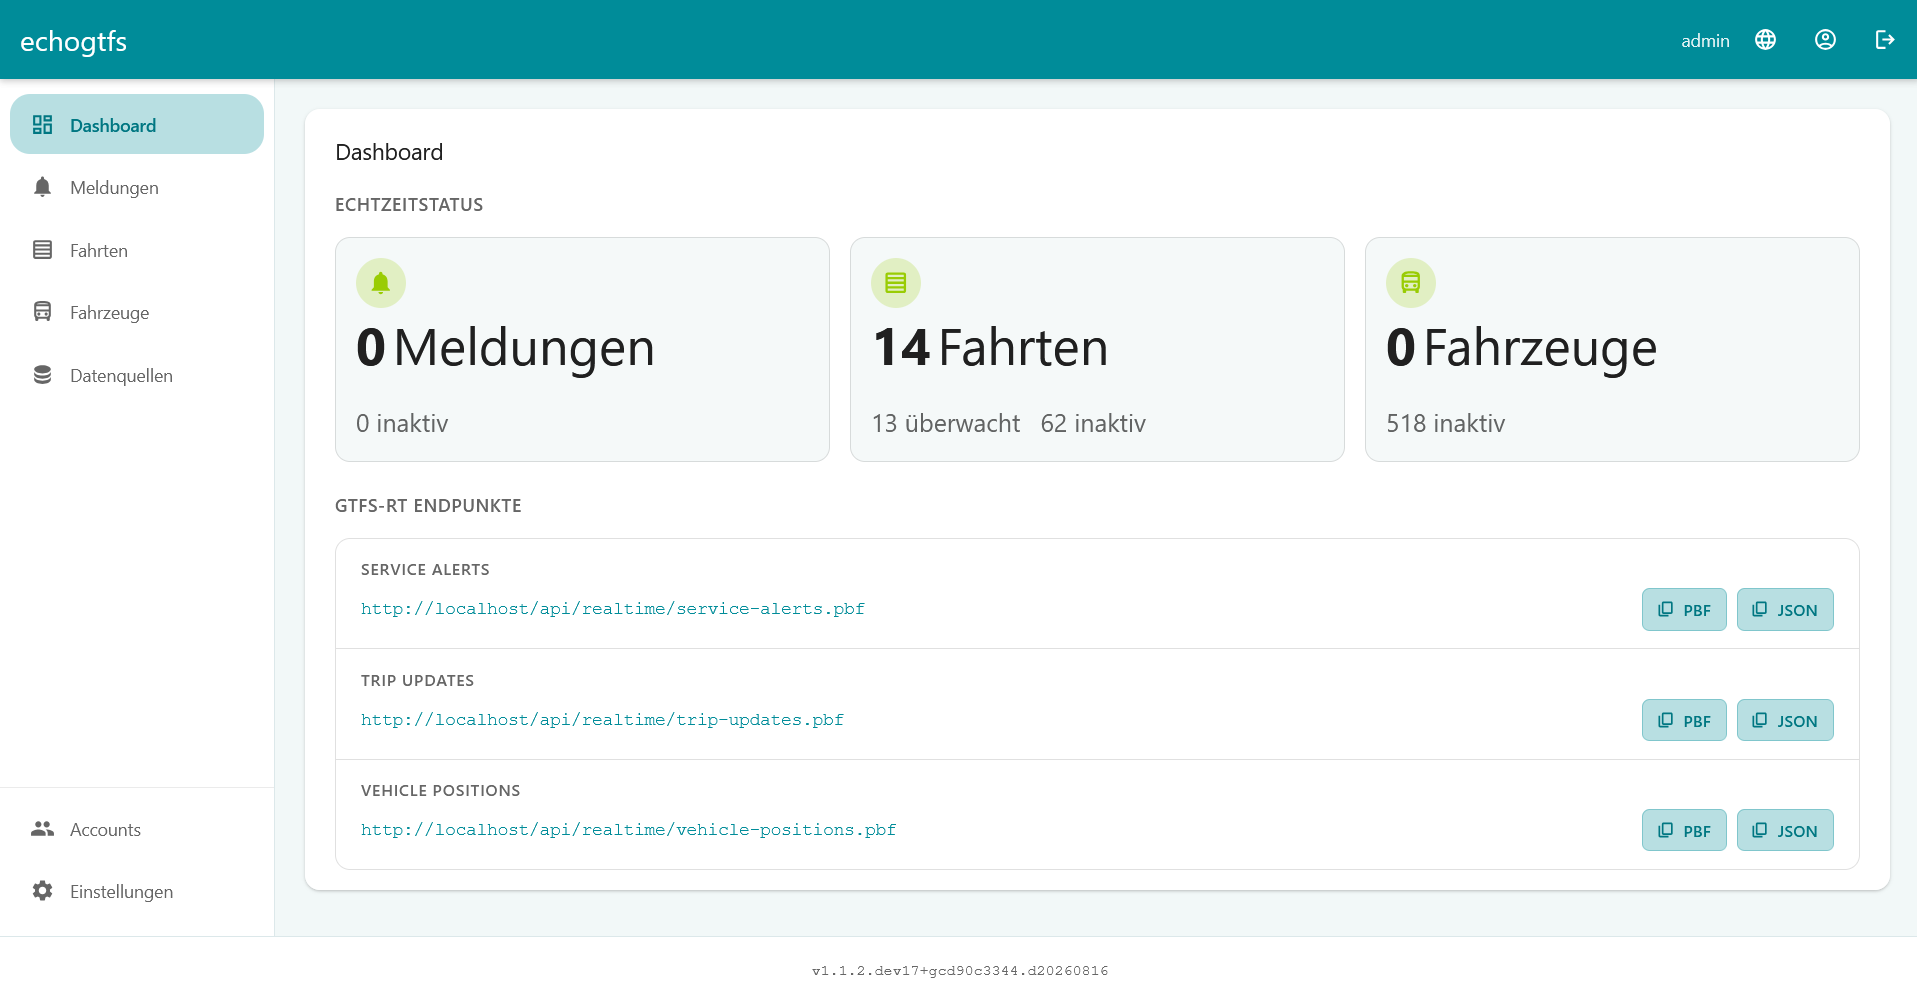
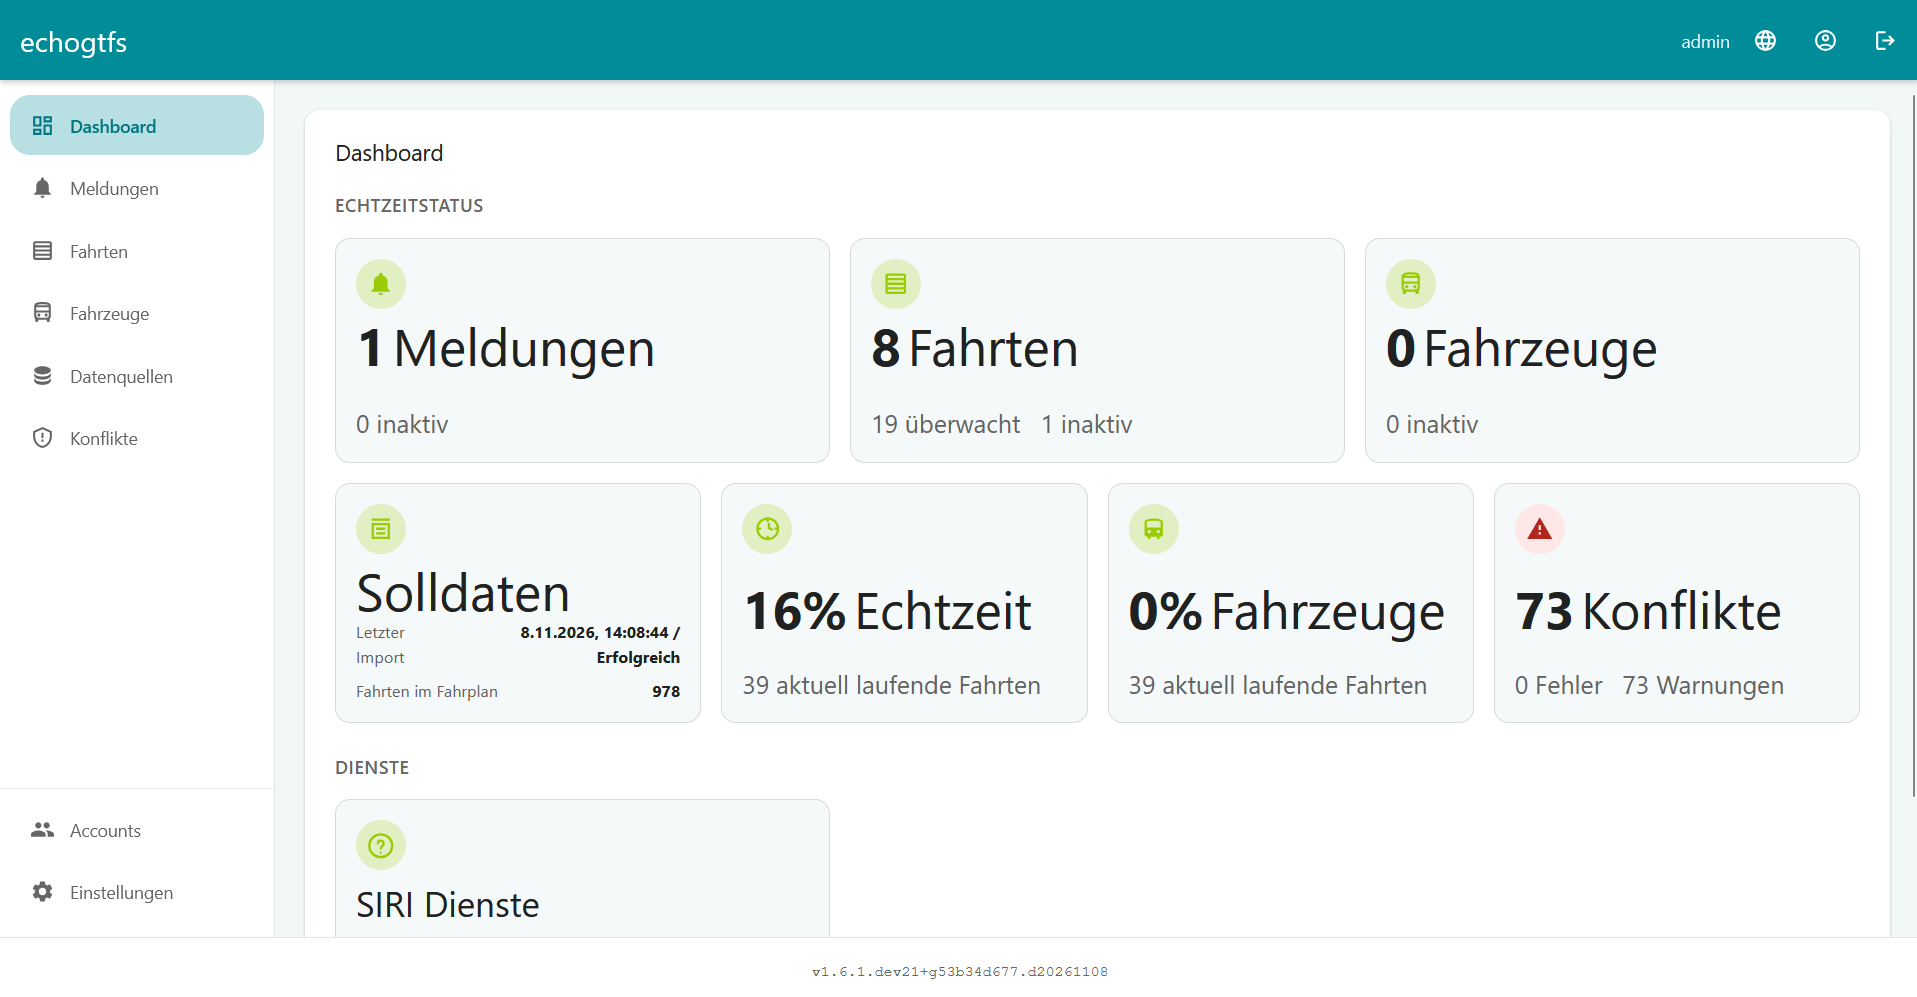
updated manual for latest information with conflict monitoring

diff --git a/docs/manual/source/datasources/general.md b/docs/manual/source/datasources/general.md
@@ -19,7 +19,7 @@ Um Datenquellen zu verwalten, wechseln Sie in den Bereich "Datenquellen" im Seit
 - Über den "Deactivate"-Button können **bestehende Datenquellen deaktiviert / aktiviert** werden
 
 ```{note}
-Eine deaktivierte Datenquelle bleibt im System enthalten, wird allerdings vom Scheduler nicht ausgeführt. Bei der Deaktivierung einer Datenquelle werden alle Objekte (Meldungen, Fahrten, Fahrzeuge), die in Zusammenhang mit dieser Datenquelle stehen, gelöscht. Nach der Aktivierung wird die Datenquelle zum nächsten regulären Zeitpunkt oder eventbasiert über die {ref}`h-push-api-push-api` vom Scheduler ausgeführt.
+Eine deaktivierte Datenquelle bleibt im System enthalten, wird allerdings vom Scheduler nicht ausgeführt. Bei der Deaktivierung einer Datenquelle werden alle Objekte (Meldungen, Fahrten, Fahrzeuge), die in Zusammenhang mit dieser Datenquelle stehen, gelöscht. Nach der Aktivierung wird die Datenquelle zum nächsten regulären Zeitpunkt oder eventbasiert über die {ref}`h-echo-api-echo-api` vom Scheduler ausgeführt.
 ```
 
 (h-datasources-general-edit)=
@@ -36,7 +36,7 @@ Für jede Datenquelle können folgende Informationen gepflegt werden:
 - **Name**: _eindeutige Bezeichnung_ innerhalb des Systems für die Datenquelle
 - **Adapter**: Typ der Datenquelle (GTFS-RT, SIRI-Lite, SIRI-...)
 - **Endpunkt-URL**: URL, von der die Daten bei der Ausführung der Datenquelle abgerufen werden. Optional bei eventbasierten Datenquellen, je nach verwendetem Adapter-Typ
-- **Ausführungsart**: Ausführungsart der Datenquelle. Zeitbasiert = über Cron-Ausdruck, Eventbasiert = über {ref}`h-push-api-push-api`, Abobasiert = über ein vom Dienst verwaltetes Abonnement
+- **Ausführungsart**: Ausführungsart der Datenquelle. Zeitbasiert = über Cron-Ausdruck, Eventbasiert = über {ref}`h-echo-api-echo-api`, Abobasiert = über ein vom Dienst verwaltetes Abonnement
 - **Cron-Ausdruck**: Cron-Ausdruck zur Angabe der gewünschten Ausführungsintervalle. Nur relevant bei zeitbasierter Ausführung
 - **Verfahrensweise bei ungültigen Bezügen**: Angabe zum Umgang mit Objekten mit ungültigen Bezügen
 - **Aktiv**: Aktivierung oder Deaktivierung der Datenquelle
@@ -72,7 +72,7 @@ _Die genauen Regeln zur Unterstützung von Filtern sind in der Beschreibung der 
 
 Standardmäßig werden Datenquellen zeitbasiert ausgeführt. Dabei werden sie vom internen Scheduler zu regelmäßgen, über den Cron-Ausdruck definierten Zeitpunkten ausgeführt. Die Daten werden dabei von EchoGTFS vom Quellsystem abgefragt.
 
-Bei besonders zeitkritischen Datenquellen (z.B. Fahrzeugpositionen) besteht alternativ die Möglichkeit, die Datenquelle eventbasiert auszuführen. Dabei werden die Daten aktiv vom Quellsystem an den Endpunkt der {ref}`h-push-api-push-api` für die jeweilige Datenquelle übermittelt und die Datenquelle unmittelbar ausgeführt.
+Bei besonders zeitkritischen Datenquellen (z.B. Fahrzeugpositionen) besteht alternativ die Möglichkeit, die Datenquelle eventbasiert auszuführen. Dabei werden die Daten aktiv vom Quellsystem an den Endpunkt der {ref}`h-echo-api-echo-api` für die jeweilige Datenquelle übermittelt und die Datenquelle unmittelbar ausgeführt.
 
 Alternativ bietet EchoGTFS auch die Nutzung sogenannter abobasierten Datenquellen an. Dabei wird ein Abo an einer SIRI-Datenquelle (oder einer anderen Datenquelle) eingerichtet und die Nutzdaten an die jeweilige Datenquelle zur Verarbeitung übergeben. Damit abobasierte Datenquellen genutzt werden können, müssen je nach Datenquelle zusätzliche Kommunikationsdienste gestartet werden. Weitere Informationen dazu finden Sie {ref}`in der Installationsanleitung <h-installation-additional-services>`. Beachten Sie bitte außerdem, dass bei der Verwendung von abobasierten Datenquellen je Datenquelle {ref}`mindestens zwei Worker-Prozesse <h-installation-setup-envs>` vorgehalten werden sollten.
 
@@ -101,7 +101,11 @@ Wenn ein Objekt nach dem Mapping keinem Objekt aus dem GTFS-Feed zugeordnet werd
 - **ungültige Bezugselemente verwerfen**:
 	- Bei **Meldungen** werden ungültige Bezugselemente innerhalb eines Bezugs entfernt.
 	- Bei **Fahrten** und **Fahrzeugpositionen** entspricht das Verhalten derzeit der Option **ungültige Bezüge verwerfen**.
-- **gesamtes Objekt deaktivieren**: Das Objekt wird gespeichert, aber bei ungültigen Bezügen deaktiviert und dadurch in der GTFS-RT-Ausgabe unterdrückt. _Empfohlene Verfahrensweise für Fahrten und Fahrzeugpositionen._
+- **gesamtes Objekt deaktivieren**: Das Objekt wird gespeichert, aber bei ungültigen Bezügen deaktiviert und dadurch in der GTFS-RT-Ausgabe unterdrückt. _Empfohlene Verfahrensweise für Fahrten und Fahrzeugpositionen oder bei aktiver Verwendung des Konfliktmonitorings._
+
+```{note}
+Wenn Sie EchoGTFS aktiv zur Überwachung der Datenqualität über das {ref}`h-conflicts-conflicts` oder die {ref}`h-echo-api-echo-api` nutzen wollen, empfiehlt es sich, grundsätzlich die Verfahrensweise **gesamtes Objekt deaktivieren** an den Datenquellen einzustellen. Hierbei werden die Objekte und ihre Bezüge unverändert übernommen und im Fehlerfall entsprechend als Konflikt markiert.
+```
 
 (h-datasources-general-performance)=
 

diff --git a/docs/manual/source/conflicts/conflicts.md b/docs/manual/source/conflicts/conflicts.md
@@ -1,0 +1,27 @@
+(h-conflicts-conflicts)=
+
+# Konfliktmonitoring
+
+In EchoGTFS können Konflikte in den eingehenden Daten anhand verschiedener Kriterien überwacht werden. Über den Eintrag "Konflikte" in der Seitenleiste sehen Sie eine Übersicht über alle aktuell vorliegenden Konflikte:
+
+```{figure} ../_static/images/conflicts-overview-screen.png
+:name: img-conflicts-conflicts-overview-screen
+```
+
+- Im oberen Bereich muss immer eine **Datenquelle** ausgewählt werden, für die die Konflikte angezeigt werden. Standardmäßig ist die erste Datenquelle gewählt.
+- Weiter lassen sich über **CSV exportieren** die Konflikte als CSV-Datei zur Weiterverarbeitung beispielsweise an Datenprovider exportieren.
+- Über den Filter können verschiedene Konflikttypen ein- oder ausgeblendet werden.
+
+Zu jedem Konflikt wird der **Typ** (Warnung oder Fehler) über ein entspr. Icon und den Text, der **Zeitpunkt**, zu dem der Konflikt erstmalig aufgetreten ist und ein **Fehlercode** angezeigt. Weiter werden zu jedem Konflikt abhängig vom Konflikttyp und der Herkunft verschiedene, zusätzliche **Eigenschaften** mit übermittelt, die unterhalb als Liste angezeigt werden. Über diese Eigenschaften ist es beispielsweise möglich zu erkennen, wieso eine Fahrt nicht zugeordnet werden konnte und welche Eingangsdaten von der Datenquelle übergeben wurden.
+
+## Voraussetzungen und Grenzen
+
+EchoGTFS überwacht nicht die eingehenden Rohdaten, sondern den Import der Daten und die während des Imports ermittelten Konflikte. Aus diesem Grund stehen die Möglichkeiten zum Konfliktmonitoring in direktem Zusammenhand mit der Art und Weise, wie EchoGTFS verwendet wird. Grundsätzlich gilt, dass Konflikte, die beispielsweise aufgrund der {ref}`eingestellten Verfahrensweise bei ungültigen Bezügen  <h-datasources-invalid-reference-policies>` erst gar nicht entstehen können, im Konfliktmonitoring nicht in Erscheinung treten.
+
+Für die Verfahrensweisen **gesamtes Objekt verwerfen**, **ungültige Bezüge entfernen** und **ungültige Bezugselemente entfernen** werden die Datenobjekte und deren Elemente verworfen, sodass sie im Konfliktmonitoring erst gar nicht auftauchen.
+
+Datenobjekte, die bereits während des Imports von der jeweiligen Datenquelle verworfen werden, werden im Konfliktmonitoring **nicht erfasst**.
+
+## Externe Anbindung
+
+Da das Konfliktmonitoring keine historischen Daten speichert und stets den aktuellen Systemzustand zeigt, können sämtliche Konflikte auch über die {ref}`h-echo-api-echo-api` von externen Systemen zur Historisierung abgefragt und gespeichert werden.

diff --git a/docs/manual/source/views/dashboard.md b/docs/manual/source/views/dashboard.md
@@ -6,7 +6,11 @@ Das Dashboard zeigt eine Übersicht über den aktuellen Systemstatus.
 :name: img-dashboard-overview-screen
 ```
 
-- Für alle Objekte wird die Anzahl der **aktuell aktivierten Objekte** und die Anzahl der inaktiven Objekte angezeigt
-- Bei **Fahrten** wird weiter zwischen **aktiven** und **überwachten** Fahrten differenziert. Eine aktive Fahrt ist dabei eine Fahrt, die Prognosedaten enthält und auch mit diesen nach außen kommuniziert wird. Eine überwachte Fahrt ist eine Fahrt, die von EchoGTFS bereits erkannt und gematched wurde, aber noch keine Prognosedaten enthält
-- Im unteren Bereich werden die jeweils konfigurierten öffentlichen GTFS-RT Endpunkte angezeigt
-    - Über die Buttons "PBF" und "JSON" werden die URLs in die Zwischenablage kopiert, die zum Abruf der Daten als **ProtoBuf** und **JSON** verwendet werden können
+- Für alle Objekte wird die Anzahl der **aktuell aktivierten Objekte** und die Anzahl der inaktiven Objekte angezeigt.
+- Bei **Fahrten** wird weiter zwischen **aktiven** und **überwachten** Fahrten differenziert. Eine aktive Fahrt ist dabei eine Fahrt, die Prognosedaten enthält und auch mit diesen nach außen kommuniziert wird. Eine überwachte Fahrt ist eine Fahrt, die von EchoGTFS bereits erkannt und gematched wurde, aber noch keine Prognosedaten enthält. Generell können hierbei auch Fahrten enthalten sein, die planmäßig noch nicht verkehren und in der Zukunft liegen.
+- Unterhalb werden verschiedene KPIs angezeigt:
+    - **Solldaten**: Zeigt den letzten Importzeitstempel und -Status, sowie die Anzahl der derzeit geladenen Fahrten im Soll-Fahrplan an.
+    - **Echtzeit**: Zeigt die Anzahl der aktuell planmäßig verkehrenden Fahrten und deren Echtzeitquote an. Hier werden nur Fahrten einbezogen, für die auch Prognosedaten vorliegen.
+    - **Fahrzeuge**: Zeigt die Anzahl der aktuell planmäßig verkehrenden Fahrten und deren Quote mit Zuordnung eines Fahrzeuges an.
+    - **Konflikte**: Zeigt die Anzahl Fehler und Warnungen im System an.
+- Im Abschnitt **Dienste** wird der Status verschiedener Zusatzdienste angezeigt, sofern diese bei der Installation aktiviert werden. Dazu zählen beispielsweise die SIRI-Dienste.

diff --git a/docs/manual/source/index.md b/docs/manual/source/index.md
@@ -18,6 +18,7 @@ Technische Dokumentation auf GitHub: [https://github.com/sebastianknopf/echogtfs
 quickstart/index
 views/index
 datasources/index
+conflicts/index
 administration/index
 troubleshooting/index
 ```

diff --git a/docs/manual/source/conflicts/index.md b/docs/manual/source/conflicts/index.md
@@ -1,0 +1,7 @@
+# Konflikte
+
+```{toctree}
+:maxdepth: 1
+
+conflicts
+```
